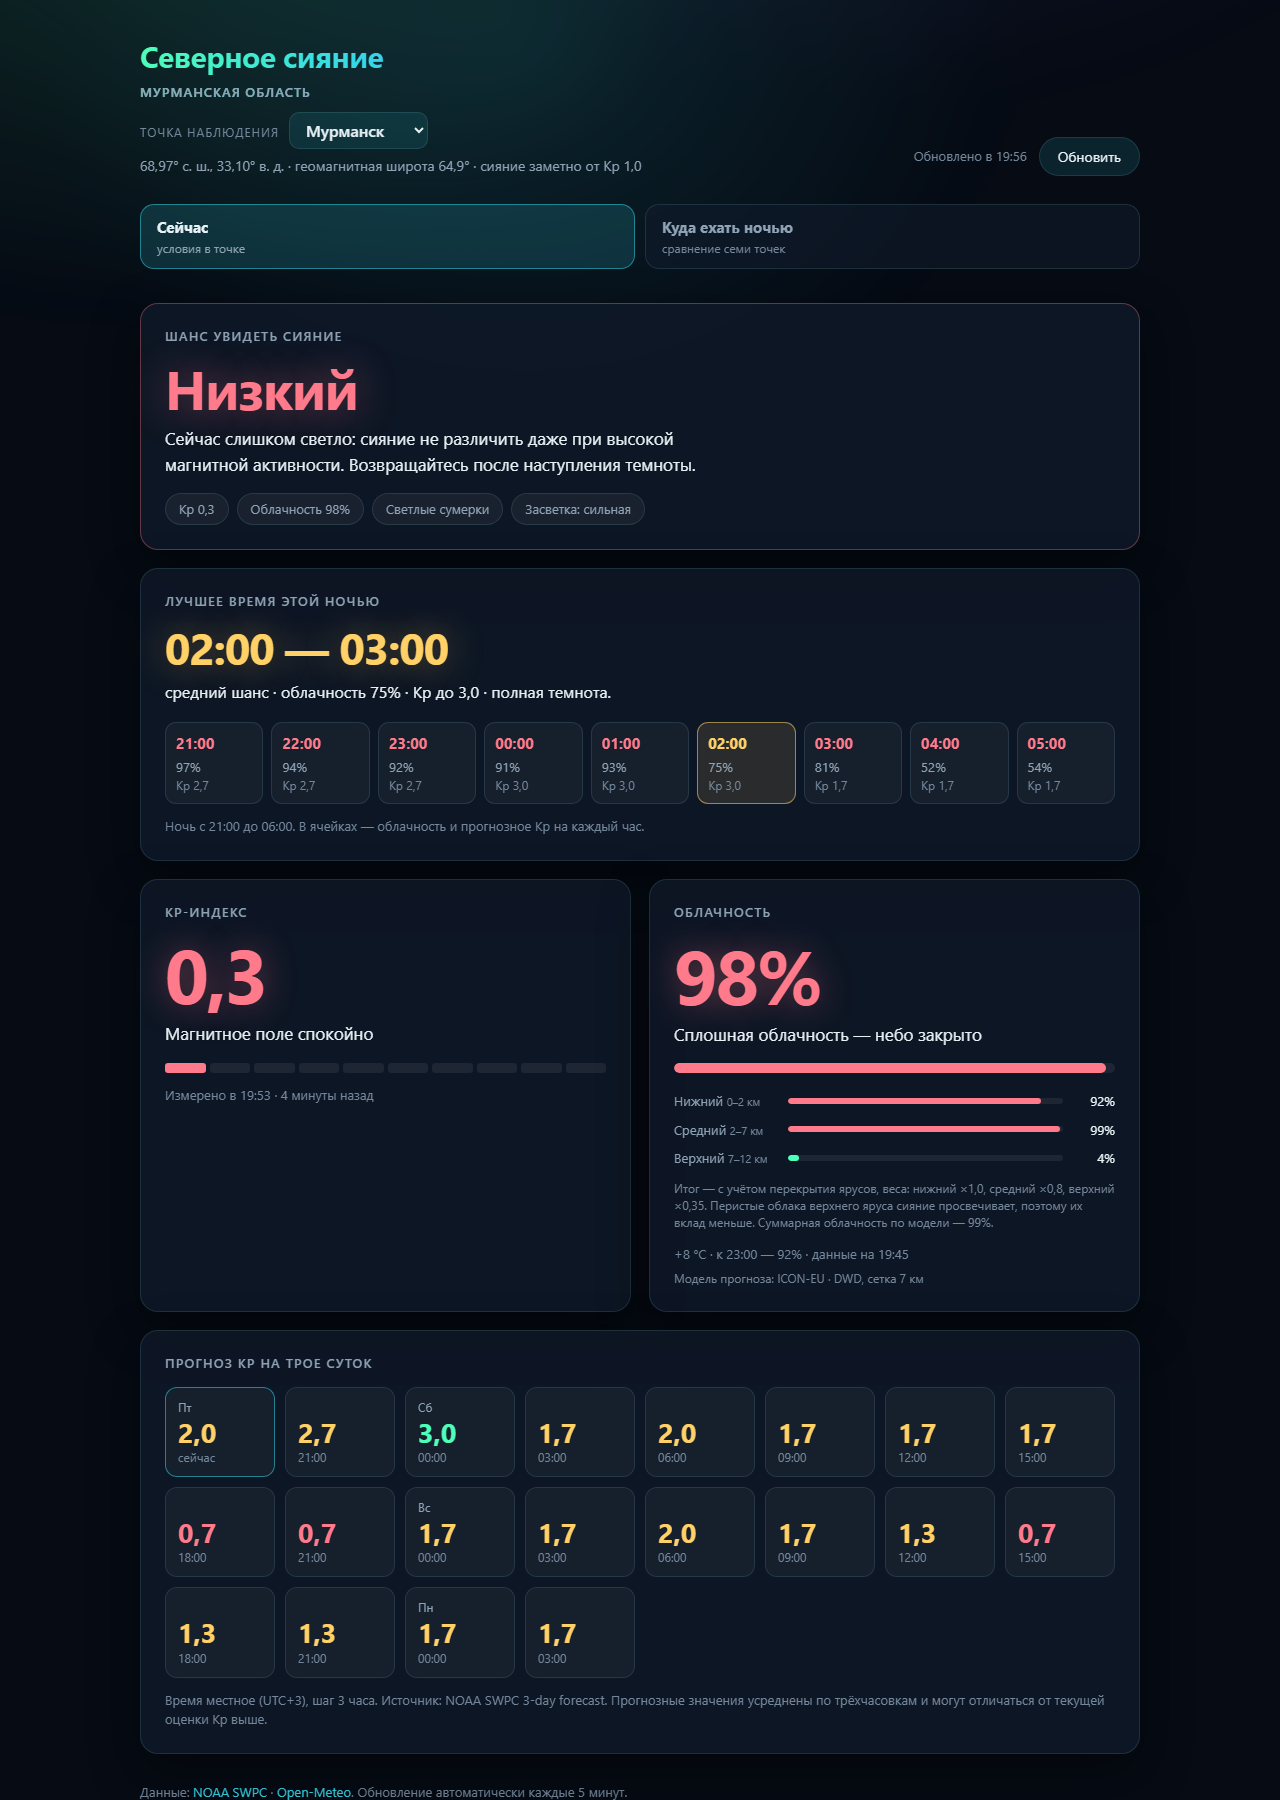
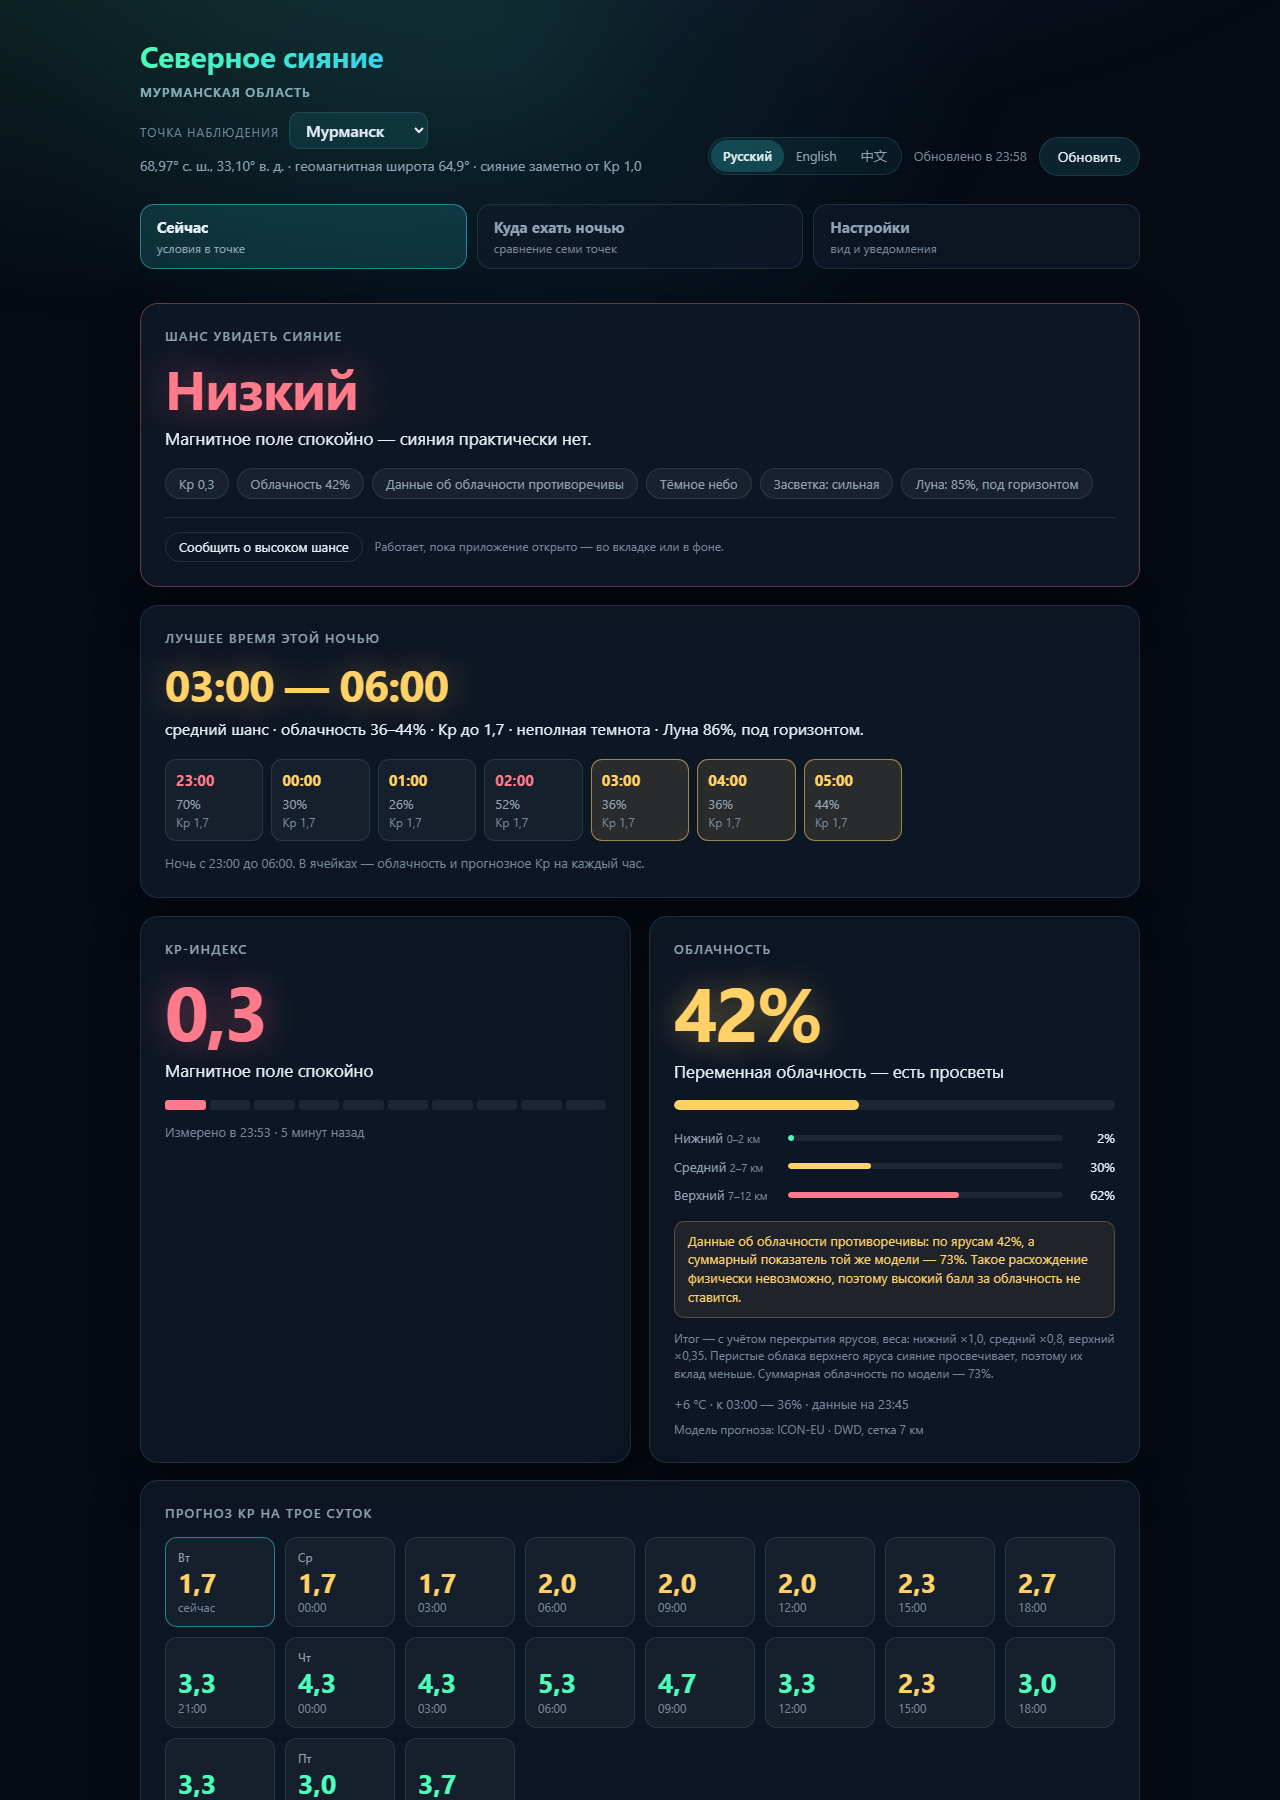
Нейтральное название приложения и новый скриншот
- manifest.json: «Aurora Murmansk — Северное сияние», короткое «Aurora», описание на трёх языках —
  иностранец при установке больше не видит только кириллицу
- apple-mobile-web-app-title и справка на вкладке «Настройки» — под новое название
- скриншот в README под текущую версию (языки, «Настройки», Луна)
- service worker v13

Серверная часть тихих часов развёрнута: колонки quiet_from, quiet_to, tz в D1, воркер обновлён.

diff --git a/index.html b/index.html
@@ -21,7 +21,7 @@ try {
 <link rel="apple-touch-icon" href="icons/icon-192.png">
 <meta name="apple-mobile-web-app-capable" content="yes">
 <meta name="apple-mobile-web-app-status-bar-style" content="black-translucent">
-<meta name="apple-mobile-web-app-title" content="Сияние">
+<meta name="apple-mobile-web-app-title" content="Aurora">
 <link rel="stylesheet" href="styles.css">
 </head>
 <body>
@@ -397,7 +397,7 @@ try {
       <li><b data-i18n="help.1.t">Разрешение запрещено.</b> <span data-i18n="help.1.d">В Chrome и Edge нажмите значок настроек слева от адреса сайта → «Уведомления» → «Разрешить» и обновите страницу. В Firefox — значок разрешений там же, слева от адреса.</span></li>
       <li><b data-i18n="help.2.t">Windows.</b> <span data-i18n="help.2.d">Параметры → Система → Уведомления: браузер должен быть включён, а режим «Не беспокоить» выключен.</span></li>
       <li><b data-i18n="help.3.t">macOS.</b> <span data-i18n="help.3.d">Системные настройки → Уведомления → ваш браузер → «Разрешить уведомления».</span></li>
-      <li><b data-i18n="help.4.t">Android.</b> <span data-i18n="help.4.d">Настройки → Приложения → Chrome → Уведомления; если «Сияние» установлено как приложение — то же для него. Режим экономии заряда может приостанавливать свёрнутое приложение.</span></li>
+      <li><b data-i18n="help.4.t">Android.</b> <span data-i18n="help.4.d">Настройки → Приложения → Chrome → Уведомления; если сайт установлен как приложение «Aurora» — то же для него. Режим экономии заряда может приостанавливать свёрнутое приложение.</span></li>
       <li><b data-i18n="help.5.t">iPhone и iPad.</b> <span data-i18n="help.5.d">Нужна iOS 16.4 или новее, а сайт должен быть добавлен на экран «Домой» через «Поделиться» и открыт оттуда — из Safari уведомления не работают.</span></li>
       <li><b data-i18n="help.6.t">Всё разрешено, но уведомления о сиянии не приходят.</b> <span data-i18n="help.6.d">Уведомления самой страницы работают, пока приложение открыто. Чтобы получать их и при закрытом приложении, включите уведомления с сервера в блоке выше.</span></li>
     </ul>

diff --git a/lang/ru.js b/lang/ru.js
@@ -5,7 +5,7 @@
 i18nRegister('ru', {
   /* --- страница --- */
   'meta.description': 'Прогноз северного сияния для семи точек Мурманской области: Kp-индекс, облачность по ярусам, лучшее время наблюдения и подсказка, куда ехать этой ночью.',
-  'meta.app_title': 'Сияние',
+  'meta.app_title': 'Aurora',
   'title.point': '{name} · Северное сияние',
   'app.title': 'Северное сияние',
   'app.region': 'Мурманская область',
@@ -114,7 +114,7 @@ i18nRegister('ru', {
   'help.3.t': 'macOS.',
   'help.3.d': 'Системные настройки → Уведомления → ваш браузер → «Разрешить уведомления».',
   'help.4.t': 'Android.',
-  'help.4.d': 'Настройки → Приложения → Chrome → Уведомления; если «Сияние» установлено как приложение — то же для него. Режим экономии заряда может приостанавливать свёрнутое приложение.',
+  'help.4.d': 'Настройки → Приложения → Chrome → Уведомления; если сайт установлен как приложение «Aurora» — то же для него. Режим экономии заряда может приостанавливать свёрнутое приложение.',
   'help.5.t': 'iPhone и iPad.',
   'help.5.d': 'Нужна iOS 16.4 или новее, а сайт должен быть добавлен на экран «Домой» через «Поделиться» и открыт оттуда — из Safari уведомления не работают.',
   'help.6.t': 'Всё разрешено, но уведомления о сиянии не приходят.',

diff --git a/sw.js b/sw.js
@@ -15,7 +15,7 @@ try { importScripts('config.js'); } catch (e) { /* без настроек push 
 
 /* При изменении файлов оболочки поднять версию: имя кэша сменится, install
  * загрузит файлы заново, а activate удалит предыдущую версию. */
-var CACHE_VERSION = 'v12';
+var CACHE_VERSION = 'v13';
 var CACHE_NAME = 'aurora-' + CACHE_VERSION;
 
 var APP_SHELL = [

diff --git a/README.md b/README.md
@@ -4,7 +4,7 @@
 
 **[Открыть живую версию →](https://auroramurmansk.ru/)**
 
-![Дашборд прогноза северного сияния: выбор точки наблюдения, вкладки «Сейчас» и «Куда ехать ночью», вердикт, окно наблюдения, Kp-индекс, облачность по ярусам и прогноз на трое суток](screenshot.png)
+![Дашборд прогноза северного сияния: переключатель языка, выбор точки наблюдения, вкладки «Сейчас», «Куда ехать ночью» и «Настройки», вердикт с учётом Луны, окно наблюдения, Kp-индекс, облачность по ярусам и прогноз Kp на трое суток](screenshot.png)
 
 Интерфейс на трёх языках — русском, английском и китайском: в Мурманск за сиянием едут туристы со всего мира (см. [Языки](#языки)).
 
